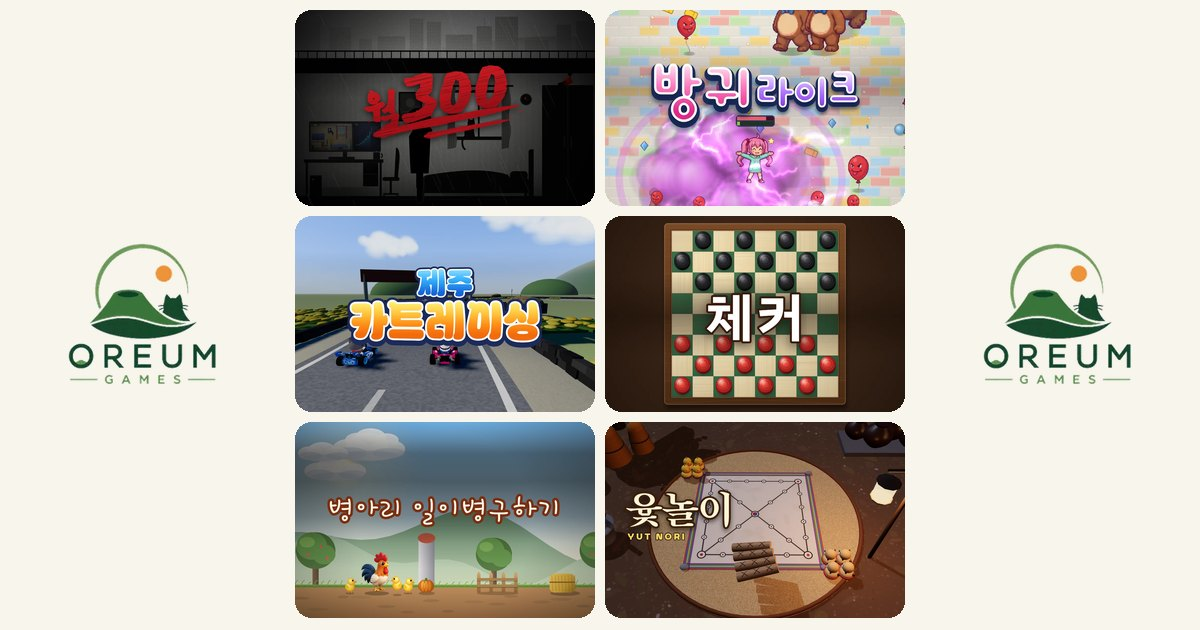
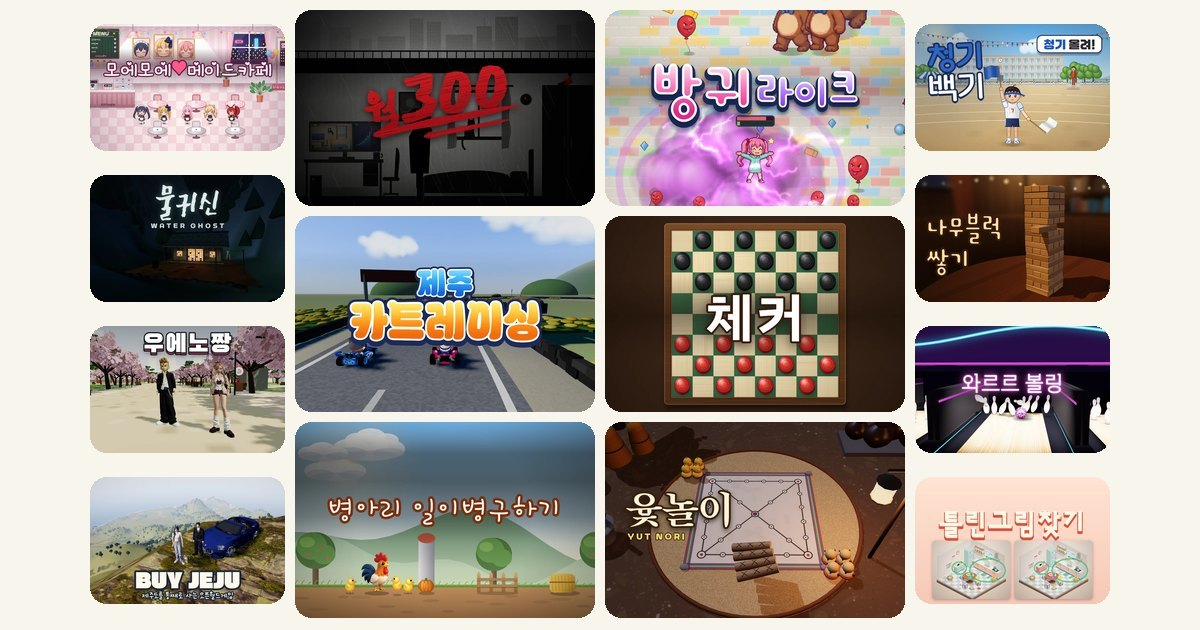
미리보기 그림 og-image v10: PC 만 고침 — 양옆 로고(PC 에서 잘림) 빼고 카드 8장, 가운데 모바일 정사각형은 v9 그대로 (사장님 2026-09-26 "pc버전은 확인안하냐" → "카드만 보여야지" → "모바일은 냅둬 피씨만 고치라고")

diff --git a/games/index.html b/games/index.html
@@ -24,7 +24,7 @@
 <meta property="og:title" content="무료게임 사이트 오름게임즈 — 설치 없이 바로 하는 웹게임">
 <meta property="og:description" content="무설치게임 50개. 설치없는게임이라 링크 하나로 바로 시작합니다. 보드·스포츠·방치형·공포게임까지 폰과 PC 모두.">
 <meta property="og:url" content="https://oreumgames.com/games/">
-<meta property="og:image" content="https://oreumgames.com/assets/og-image.jpg?v=9">
+<meta property="og:image" content="https://oreumgames.com/assets/og-image.jpg?v=10">
 <meta property="og:image:width" content="1200">
 <meta property="og:image:height" content="630">
 <meta property="og:locale" content="ko_KR">

diff --git a/en/index.html b/en/index.html
@@ -21,7 +21,7 @@
 <meta property="og:title" content="Oreum Games — free browser games, no install">
 <meta property="og:description" content="No install — one link and you are in. No sign-up — saves stay in your browser. Free browser games from Oreum Games, an indie game factory.">
 <meta property="og:url" content="https://oreumgames.com/en/">
-<meta property="og:image" content="https://oreumgames.com/assets/og-image.jpg?v=9">
+<meta property="og:image" content="https://oreumgames.com/assets/og-image.jpg?v=10">
 <meta property="og:image:width" content="1200">
 <meta property="og:image:height" content="630">
 <meta property="og:locale" content="en_US">

diff --git a/index.html b/index.html
@@ -24,7 +24,7 @@
 <meta property="og:title" content="오름게임즈 — 설치 없이 바로 하는 무료 웹게임">
 <meta property="og:description" content="오름게임즈 — 설치도 회원가입도 없이 브라우저에서 바로 하는 무료 웹게임과 미니게임.">
 <meta property="og:url" content="https://oreumgames.com/">
-<meta property="og:image" content="https://oreumgames.com/assets/og-image.jpg?v=9">
+<meta property="og:image" content="https://oreumgames.com/assets/og-image.jpg?v=10">
 <meta property="og:image:width" content="1200">
 <meta property="og:image:height" content="630">
 <meta property="og:locale" content="ko_KR">

diff --git a/en/games/index.html b/en/games/index.html
@@ -21,7 +21,7 @@
 <meta property="og:title" content="Free browser games & mini games | Oreum Games">
 <meta property="og:description" content="50 free web games that start in your browser with no install. Board games, sports, idle and horror, on phone and PC.">
 <meta property="og:url" content="https://oreumgames.com/en/games/">
-<meta property="og:image" content="https://oreumgames.com/assets/og-image.jpg?v=9">
+<meta property="og:image" content="https://oreumgames.com/assets/og-image.jpg?v=10">
 <meta property="og:image:width" content="1200">
 <meta property="og:image:height" content="630">
 <meta property="og:locale" content="en_US">

diff --git a/make-og.py b/make-og.py
@@ -6,7 +6,7 @@
     python make-og.py
 
 games/index.html 의 카드 순서에서 최신 게임을 골라 3×2 모음 그림을 굽습니다.
-  · GAMES 칸(CARDS:start 뒤) 앞 3장 + 플래시 칸(FLASH:start 뒤) 앞 3장
+  · 가운데: GAMES 칸 앞 3장 + 플래시 칸 앞 3장 / 양옆: 그다음 4장씩
   · 결과: assets/og-image.jpg (1200×630) — 대문·GAMES 허브(한·영)가 이 파일 하나를 씁니다
 새 게임을 올리고 카드를 앞에 넣은 뒤 이걸 한 번 돌리면 카카오톡·디스코드 미리보기가 최신 게임으로 바뀝니다.
 (카카오톡은 주소별로 미리보기를 오래 기억하므로, 안 바뀌면 developers.kakao.com/tool/clear/og 에서 초기화)
@@ -18,7 +18,7 @@ from PIL import Image, ImageDraw
 
 ROOT = os.path.dirname(os.path.abspath(__file__))
 OUT = os.path.join(ROOT, "assets", "og-image.jpg")
-W, H, GAP, COLS, ROWS = 1200, 630, 10, 3, 2
+W, H = 1200, 630
 
 
 def cards_after(html, marker, n):
@@ -35,17 +35,17 @@ def cards_after(html, marker, n):
 
 
 def main():
-    # 카톡 등은 1200×630 을 가운데 정사각형으로 잘라 보이기도 한다(사장님 2026-09-22 "카드가 잘려 보인다")
-    # → 카드 6장을 가운데 630×630 안에 2열×3줄로 넣어, 정사각형으로 잘려도 여섯 장이 다 보이게 한다. 양옆은 로고.
+    # 모바일 카톡은 1200×630 을 가운데 630×630 으로, PC 링크 카드는 양옆을 약 75px씩 잘라 보인다.
+    # 사장님 2026-09-22 "카드가 잘려 보인다" → 가운데 정사각형(x 285~915)에 카드 6장을 2열×3줄로.
+    # 사장님 2026-09-26 "카드만 보여야지" → 양옆 로고를 빼고 카드 8장(4줄×2)으로 채운다.
+    #   양옆 카드는 x 90~285, 915~1110 안에 두어 PC 에서 안 잘리고, 원본 비율 그대로라 제목도 안 잘린다.
     hub = io.open(os.path.join(ROOT, "games", "index.html"), encoding="utf-8").read()
-    names = cards_after(hub, "<!-- CARDS:start -->", 3) + cards_after(hub, "<!-- FLASH:start -->", 3)
-    S = H                      # 가운데 정사각형 한 변 630
-    cols, rows, gap = 2, 3, 10
-    cw = (S - gap * (cols + 1)) // cols          # 300
-    ch = (S - gap * (rows + 1)) // rows          # 196
-    x0 = (W - S) // 2
+    g = cards_after(hub, "<!-- CARDS:start -->", 7)
+    f = cards_after(hub, "<!-- FLASH:start -->", 7)
+    center, side = g[:3] + f[:3], g[3:7] + f[3:7]
     bg = Image.new("RGB", (W, H), (248, 245, 236))
-    for i, n in enumerate(names[:6]):
+
+    def put(n, x, y, cw, ch):
         im = Image.open(os.path.join(ROOT, "assets", n)).convert("RGB")
         w, h = im.size
         tw = int(h * cw / ch)
@@ -55,23 +55,22 @@ def main():
             th = int(w * ch / cw)
             im = im.crop((0, (h - th) // 2, w, (h - th) // 2 + th))
         im = im.resize((cw, ch), Image.LANCZOS)
-        x = x0 + gap + (i % cols) * (cw + gap)
-        y = gap + (i // cols) * (ch + gap)
         mask = Image.new("L", (cw, ch), 0)
         ImageDraw.Draw(mask).rounded_rectangle((0, 0, cw - 1, ch - 1), radius=16, fill=255)
         bg.paste(im, (x, y), mask)
-    # 양옆 여백에 로고
-    try:
-        logo = Image.open(os.path.join(ROOT, "assets", "logo-full.webp")).convert("RGBA")
-        lw = 150; lh = int(logo.size[1] * lw / logo.size[0]); logo = logo.resize((lw, lh), Image.LANCZOS)
-        for lx in ((x0 - lw) // 2, x0 + S + (x0 - lw) // 2):
-            bg.paste(logo, (lx, (H - lh) // 2), logo)
-    except Exception as e:
-        print("logo skip:", e)
+
+    gap = 10
+    cw, ch = 300, (H - gap * 4) // 3             # 가운데 카드 300×196
+    for i, n in enumerate(center):
+        put(n, 295 + (i % 2) * (cw + gap), gap + (i // 2) * (ch + gap), cw, ch)
+    sw = 195; sh = round(sw * ch / cw); sg = (H - 4 * sh) // 5   # 양옆 카드 195×127
+    for i, n in enumerate(side):
+        put(n, 285 - sw if i < 4 else 915, sg + (i % 4) * (sh + sg), sw, sh)
+    names = center + side
     tmp = OUT + ".tmp"
     bg.save(tmp, "JPEG", quality=86, optimize=True)
     os.replace(tmp, OUT)
-    print("og-image.jpg:", ", ".join(n.replace("-shot.webp", "") for n in names[:6]), "|", os.path.getsize(OUT), "bytes")
+    print("og-image.jpg:", ", ".join(n.replace("-shot.webp", "") for n in names), "|", os.path.getsize(OUT), "bytes")
     print("다음: 대문·허브의 og:image ?v= 를 하나 올리고(카카오 캐시) 커밋·푸시")
 
 
